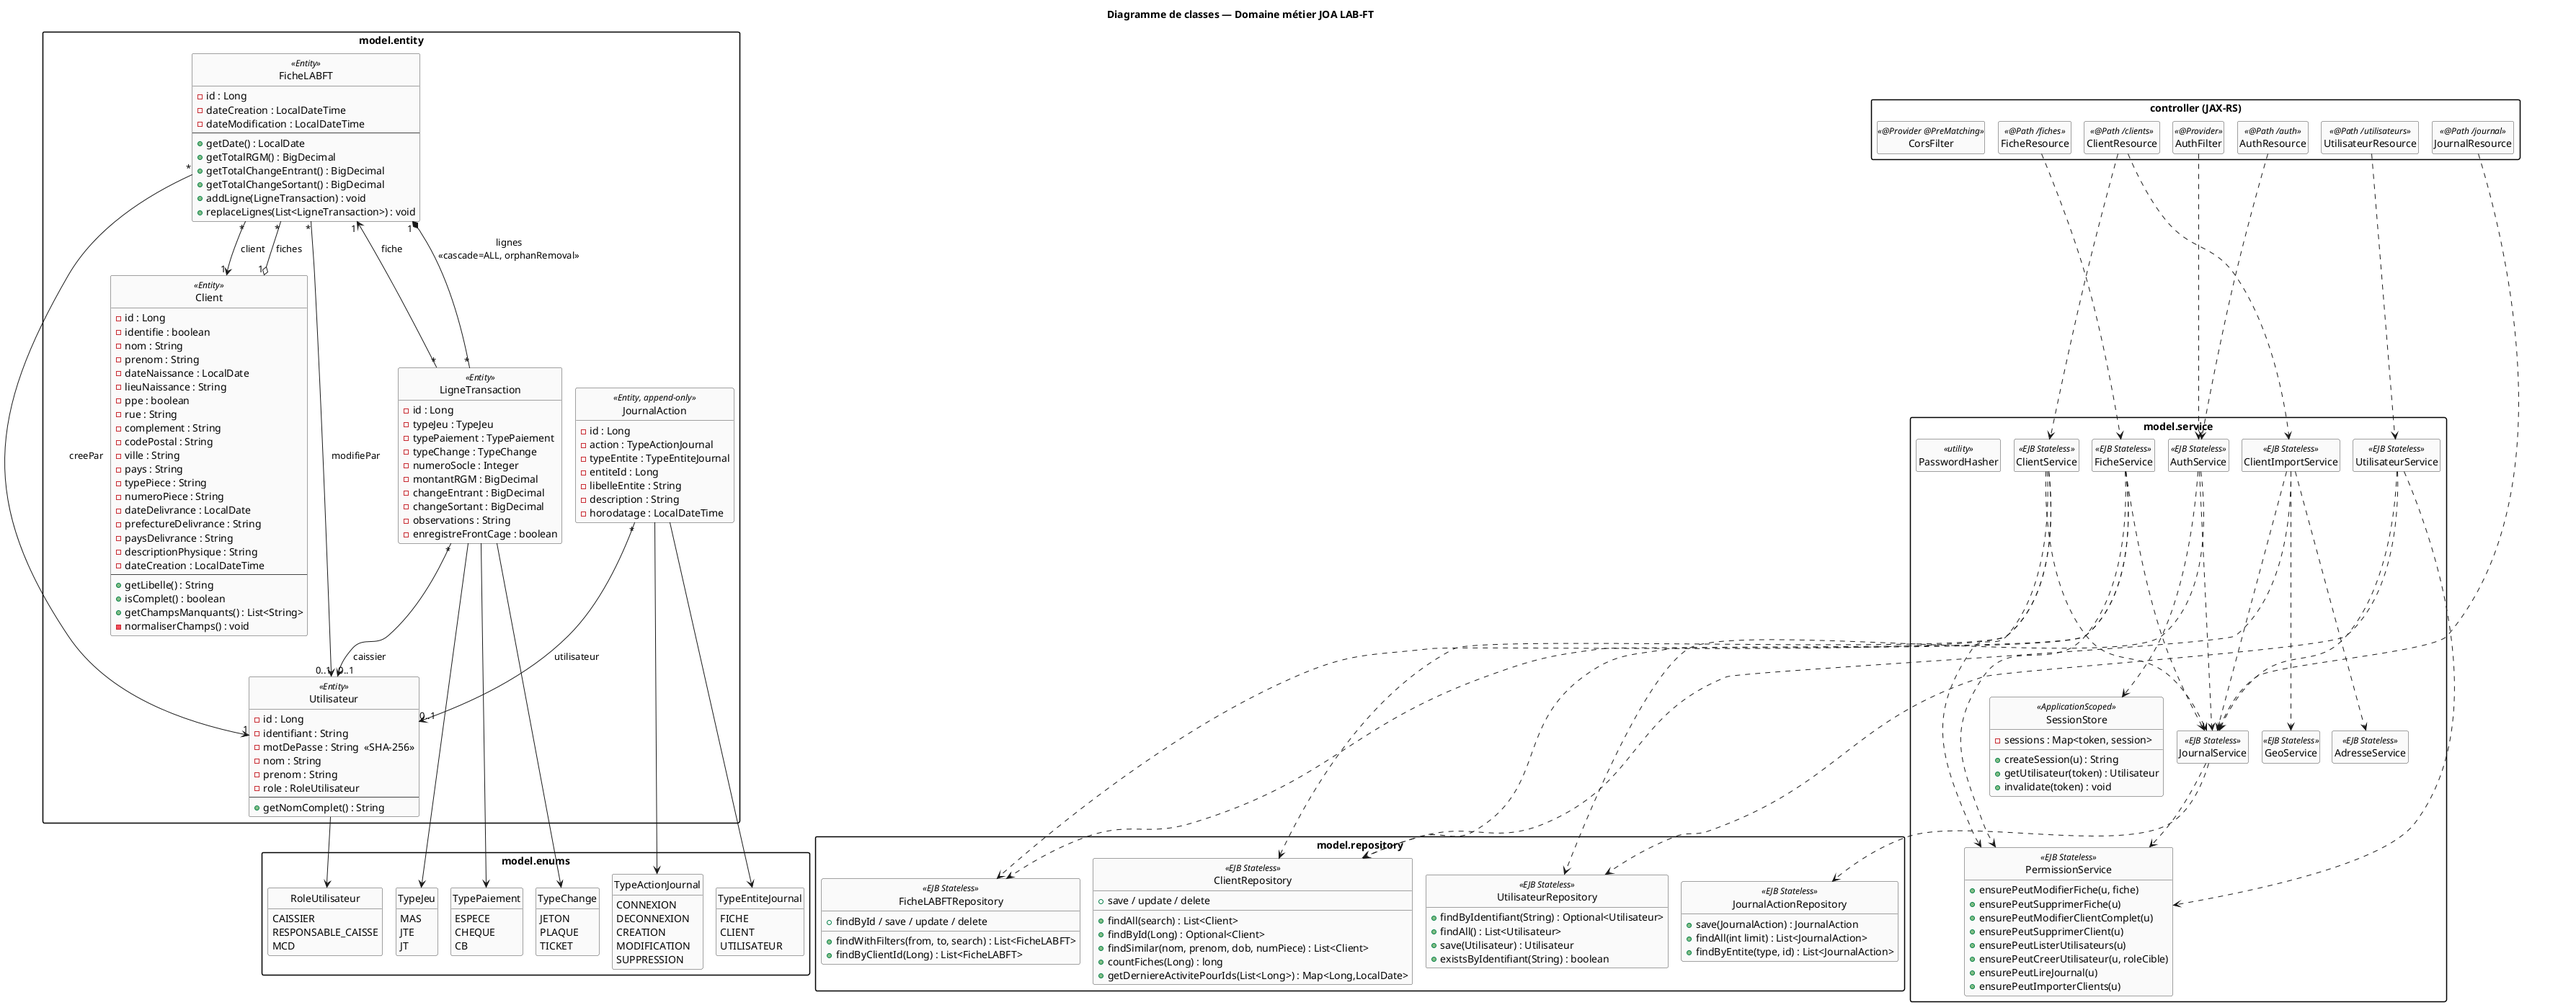
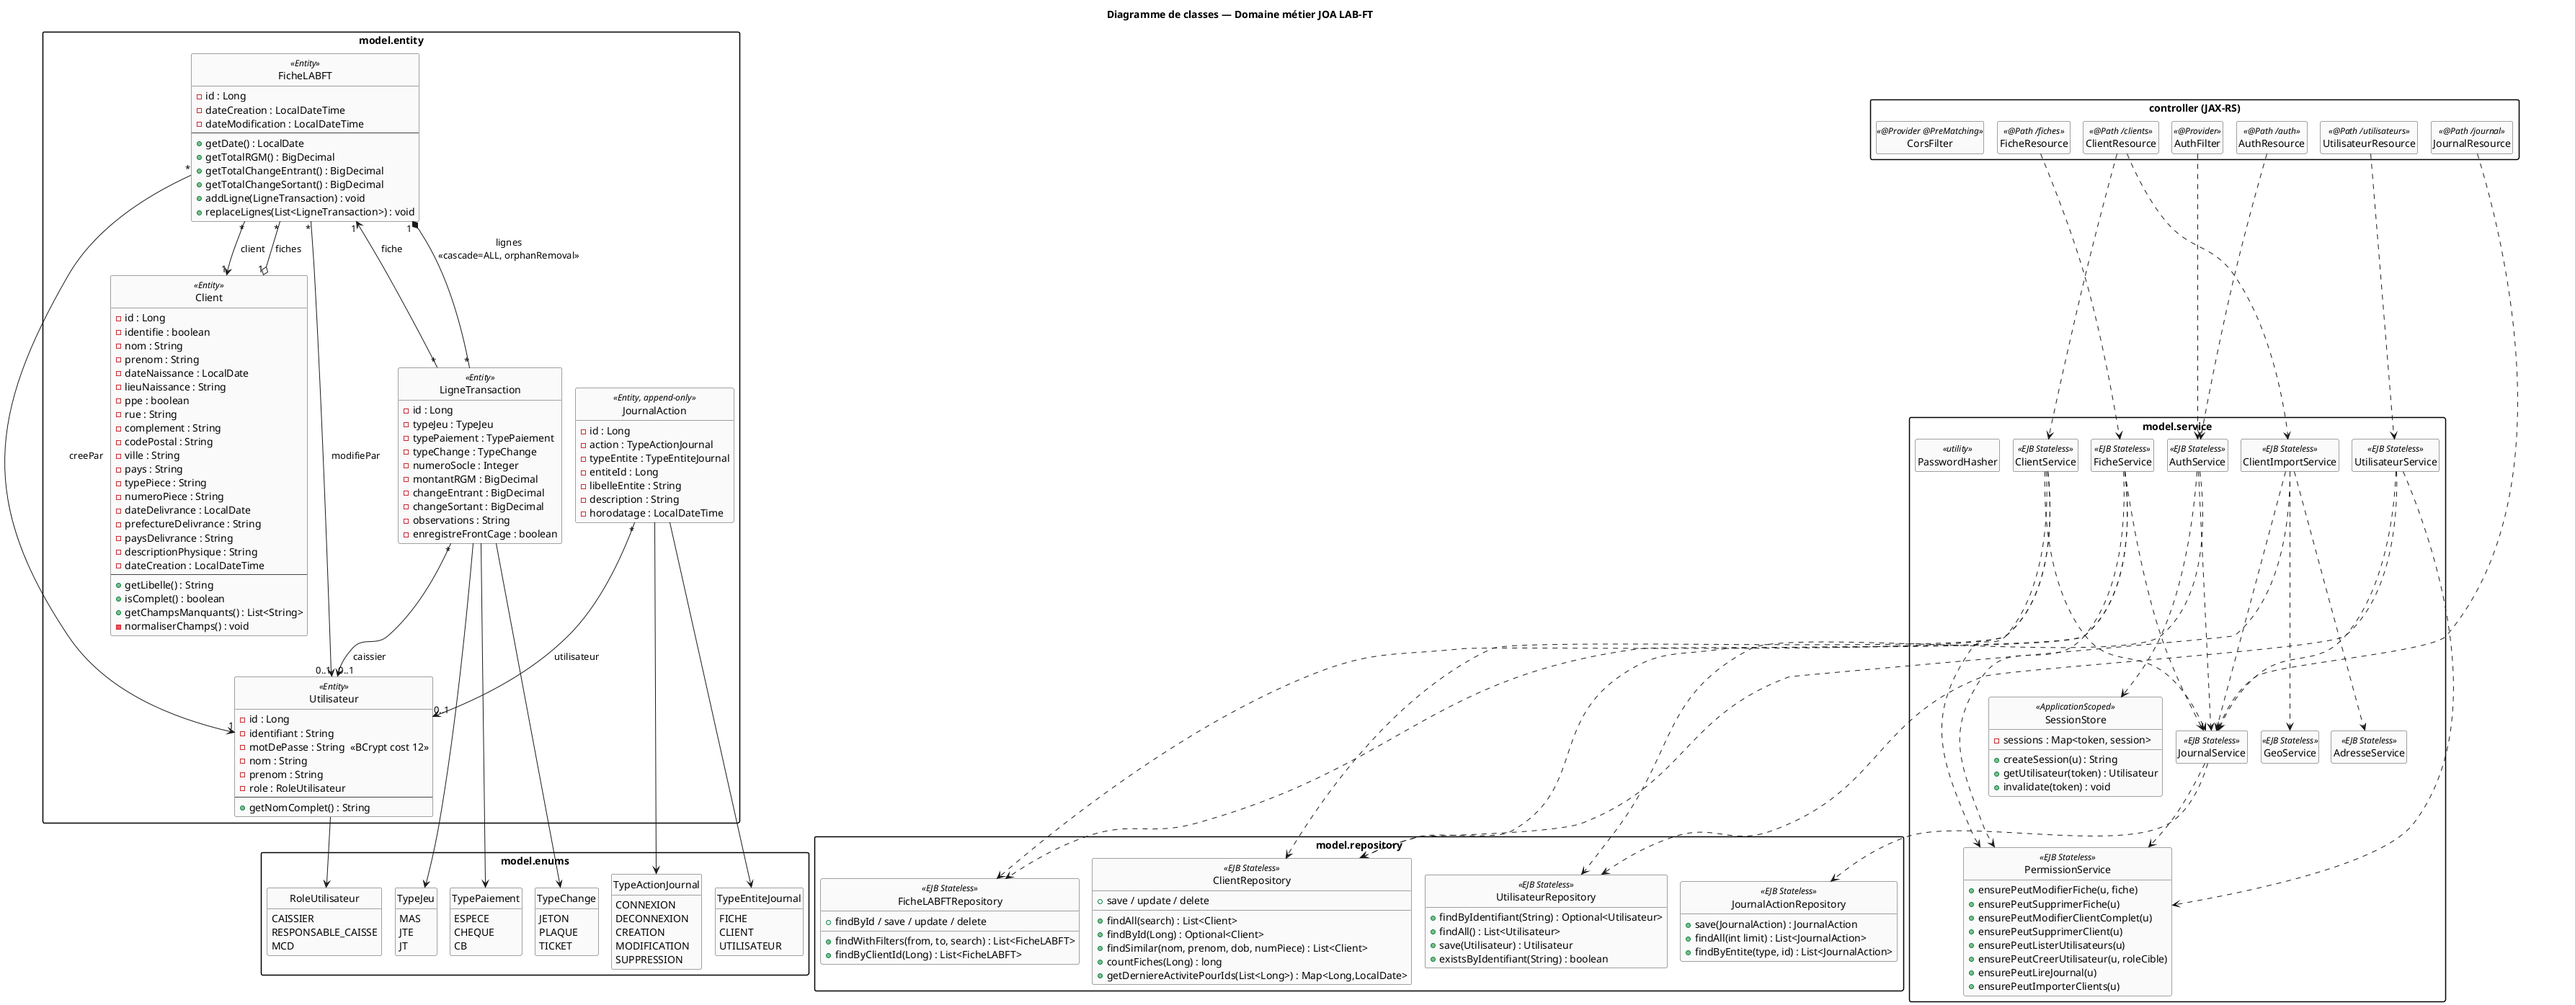
feat: migre les mots de passe de SHA-256 vers BCrypt (cost 12) avec salt
- ajoute la dépendance at.favre.lib:bcrypt 0.10.2
- PasswordHasher.hash() utilise BCrypt cost 12 + salt aléatoire
- PasswordHasher.verify() détecte BCrypt vs SHA-256 legacy
- AuthService.login() re-hash transparent en BCrypt à la première
  connexion réussie d'un compte legacy (zéro downtime, pas de script SQL)
- Utilisateur.motDePasse passe de length=64 à length=100
- docs (architecture, database, doc technique, FAQ) et UML mis à jour

diff --git a/src/main/java/com/amael/joalabft_backend/model/service/PasswordHasher.java b/src/main/java/com/amael/joalabft_backend/model/service/PasswordHasher.java
@@ -1,20 +1,83 @@
 package com.amael.joalabft_backend.model.service;
 
+import at.favre.lib.crypto.bcrypt.BCrypt;
+
 import java.nio.charset.StandardCharsets;
 import java.security.MessageDigest;
 import java.security.NoSuchAlgorithmException;
 
 /**
- * Hashage des mots de passe applicatifs. Centralisé ici pour que la même
- * fonction soit utilisée à la connexion (vérification) et à la création
- * d'utilisateur (stockage).
+ * Hachage des mots de passe applicatifs.
+ *
+ * <p>Les nouveaux mots de passe sont hashés en <strong>BCrypt</strong> (facteur de coût 12,
+ * salt aléatoire intégré au hash). Le format produit fait 60 caractères, par ex.
+ * {@code $2a$12$...}.
+ *
+ * <p>Pour assurer la rétrocompatibilité avec les comptes créés avant la migration,
+ * {@link #verify(String, String)} accepte aussi les anciens hashes SHA-256 (64 caractères
+ * hexadécimaux). La méthode {@link #isLegacyHash(String)} permet d'identifier ces hashes
+ * obsolètes afin de les re-hasher en BCrypt à la prochaine connexion réussie.
  */
 public final class PasswordHasher {
 
+    /** Facteur de coût BCrypt : 2^12 = 4096 itérations (~250 ms sur un serveur moderne). */
+    private static final int BCRYPT_COST = 12;
+
     private PasswordHasher() {}
 
-    /** Retourne la représentation hexadécimale du SHA-256 de {@code input}. */
-    public static String hash(String input) {
+    /**
+     * Hash {@code motDePasse} en BCrypt avec salt aléatoire.
+     *
+     * @return hash BCrypt de 60 caractères ({@code $2a$12$...})
+     * @throws IllegalArgumentException si {@code motDePasse} est {@code null}
+     */
+    public static String hash(String motDePasse) {
+        if (motDePasse == null) {
+            throw new IllegalArgumentException("Mot de passe null");
+        }
+        return BCrypt.withDefaults().hashToString(BCRYPT_COST, motDePasse.toCharArray());
+    }
+
+    /**
+     * Vérifie qu'un mot de passe en clair correspond à un hash stocké.
+     *
+     * <p>Détecte automatiquement le format :
+     * <ul>
+     *   <li>BCrypt ({@code $2a$}, {@code $2b$}, {@code $2y$}) → vérification BCrypt.</li>
+     *   <li>SHA-256 (64 caractères hexadécimaux) → comparaison legacy
+     *       en temps constant.</li>
+     * </ul>
+     *
+     * @return {@code true} si le mot de passe correspond, {@code false} sinon
+     *         (y compris si {@code hashStocke} est {@code null}/vide)
+     */
+    public static boolean verify(String motDePasse, String hashStocke) {
+        if (motDePasse == null || hashStocke == null || hashStocke.isEmpty()) {
+            return false;
+        }
+        if (isLegacyHash(hashStocke)) {
+            return constantTimeEquals(sha256Hex(motDePasse), hashStocke);
+        }
+        return BCrypt.verifyer().verify(motDePasse.toCharArray(), hashStocke).verified;
+    }
+
+    /**
+     * Indique si le hash est au format legacy SHA-256 (64 caractères hexadécimaux).
+     * Un hash legacy doit être re-hashé en BCrypt à la prochaine authentification réussie.
+     */
+    public static boolean isLegacyHash(String hashStocke) {
+        if (hashStocke == null || hashStocke.length() != 64) return false;
+        for (int i = 0; i < 64; i++) {
+            char c = hashStocke.charAt(i);
+            boolean hex = (c >= '0' && c <= '9') || (c >= 'a' && c <= 'f') || (c >= 'A' && c <= 'F');
+            if (!hex) return false;
+        }
+        return true;
+    }
+
+    // ── Helpers internes (rétrocompatibilité SHA-256) ──────────────────────────────
+
+    private static String sha256Hex(String input) {
         try {
             MessageDigest digest = MessageDigest.getInstance("SHA-256");
             byte[] hash = digest.digest(input.getBytes(StandardCharsets.UTF_8));
@@ -26,5 +89,15 @@ public final class PasswordHasher {
         } catch (NoSuchAlgorithmException e) {
             throw new RuntimeException("SHA-256 non disponible", e);
         }
+    }
+
+    /** Comparaison en temps constant pour éviter les timing attacks sur l'ancien format. */
+    private static boolean constantTimeEquals(String a, String b) {
+        if (a.length() != b.length()) return false;
+        int diff = 0;
+        for (int i = 0; i < a.length(); i++) {
+            diff |= a.charAt(i) ^ b.charAt(i);
+        }
+        return diff == 0;
     }
 }

diff --git a/src/main/java/com/amael/joalabft_backend/model/service/AuthService.java b/src/main/java/com/amael/joalabft_backend/model/service/AuthService.java
@@ -11,7 +11,11 @@ import java.util.Optional;
 
 /**
  * Gère l'authentification des utilisateurs.
- * Les mots de passe sont comparés après hachage SHA-256.
+ *
+ * <p>Les mots de passe sont vérifiés via {@link PasswordHasher#verify(String, String)},
+ * qui accepte le format BCrypt courant et tolère les hashes SHA-256 hérités. Tout hash
+ * legacy détecté lors d'une connexion réussie est <strong>migré en BCrypt</strong> de
+ * manière transparente pour l'utilisateur.
  */
 @Stateless
 public class AuthService {
@@ -35,7 +39,11 @@ public class AuthService {
         if (opt.isEmpty()) return null;
 
         Utilisateur u = opt.get();
-        if (!u.getMotDePasse().equals(PasswordHasher.hash(motDePasse))) return null;
+        if (!PasswordHasher.verify(motDePasse, u.getMotDePasse())) return null;
+
+        if (PasswordHasher.isLegacyHash(u.getMotDePasse())) {
+            u.setMotDePasse(PasswordHasher.hash(motDePasse));
+        }
 
         String token = sessionStore.createSession(u);
         journalService.log(

diff --git a/src/main/java/com/amael/joalabft_backend/model/entity/Utilisateur.java b/src/main/java/com/amael/joalabft_backend/model/entity/Utilisateur.java
@@ -5,7 +5,9 @@ import jakarta.persistence.*;
 
 /**
  * Compte applicatif d'un employé du casino.
- * Le mot de passe est stocké sous forme de hash SHA-256.
+ * Le mot de passe est stocké sous forme de hash BCrypt (60 caractères) ; les comptes
+ * antérieurs à la migration peuvent transitoirement contenir un hash SHA-256 (64
+ * caractères hex) re-hashé en BCrypt à la prochaine connexion.
  */
 @Entity
 @Table(name = "utilisateurs")
@@ -18,7 +20,7 @@ public class Utilisateur {
     @Column(nullable = false, unique = true, length = 50)
     private String identifiant;
 
-    @Column(name = "mot_de_passe", nullable = false, length = 64)
+    @Column(name = "mot_de_passe", nullable = false, length = 100)
     private String motDePasse;
 
     @Column(nullable = false, length = 50)

diff --git a/docs/faq_technique.md b/docs/faq_technique.md
@@ -75,20 +75,19 @@ Le code se trouve dans `FicheService.updateFiche` → snapshots stockés dans `M
 
 ### B1. Comment est stocké le mot de passe ?
 
-Hash SHA-256 hexadécimal, généré par `PasswordHasher.hash` :
+Hash **BCrypt** (facteur de coût 12, salt aléatoire intégré), généré par `PasswordHasher.hash` :
 
 ```java
-MessageDigest digest = MessageDigest.getInstance("SHA-256");
-byte[] hash = digest.digest(input.getBytes(StandardCharsets.UTF_8));
-// → 64 caractères hex stockés dans utilisateurs.mot_de_passe
+return BCrypt.withDefaults().hashToString(12, motDePasse.toCharArray());
+// → 60 caractères "$2a$12$<salt+hash>" stockés dans utilisateurs.mot_de_passe
 ```
 
-**Limites connues** :
-- Pas de **sel** → deux utilisateurs avec le même mot de passe ont le même hash (rainbow tables).
-- Pas de **fonction adaptative** (Bcrypt, Argon2id, PBKDF2) → le hash est rapide à calculer, donc rapide à brute-forcer.
-- Comparaison via `equals` standard → théoriquement **timing-attack** possible (sortie anticipée au premier octet différent).
+**Propriétés** :
+- **Sel intégré** au hash → deux utilisateurs avec le même mot de passe ont deux hashes différents (rainbow tables inopérantes).
+- **Fonction adaptative** : 2^12 = 4096 itérations (~250 ms sur un serveur moderne). Le coût peut être augmenté sans changement de schéma.
+- **Comparaison constant-time** : `BCrypt.verifyer().verify()` ne fait pas de sortie anticipée.
 
-**Comment je le corrige en production** : remplacer `PasswordHasher` par BCrypt (`org.springframework.security.crypto.bcrypt.BCryptPasswordEncoder` ou équivalent jBCrypt). Le sel est intégré au hash. La comparaison est faite avec `MessageDigest.isEqual(...)` qui est constant-time. C'est un changement local — seul `AuthService.login` et la création d'utilisateurs sont impactés.
+**Rétrocompatibilité** : la méthode `PasswordHasher.verify()` accepte aussi les anciens hashes SHA-256 (64 caractères hex, comparés en temps constant). À la première connexion réussie d'un compte legacy, `AuthService.login()` détecte le hash via `isLegacyHash()` et le re-hashe en BCrypt — la migration est transparente pour l'utilisateur, sans script SQL.
 
 ### B2. Que se passe-t-il si un attaquant intercepte un token JWT… euh, Bearer UUID ?
 
@@ -376,7 +375,7 @@ Pour un projet plus sensible (réglementaire pur), on imposerait la CHECK au niv
 
 | # | Limite | Impact | Mitigation pour la production |
 |---|---|---|---|
-| 1 | SHA-256 sans sel + `equals` non timing-safe | Brute-force, rainbow tables, timing | BCrypt / Argon2id + `MessageDigest.isEqual` |
+| 1 | ~~SHA-256 sans sel~~ → **migré vers BCrypt cost 12 + salt** (fallback legacy + re-hash transparent à la connexion) | Résolu | — |
 | 2 | Sessions en mémoire, expiration passive | Fuite mémoire (faible), pas de HA | Redis ou JWT signés ; purge active |
 | 3 | CORS `*` | Élargit la surface d'attaque | Whitelist d'origines en production |
 | 4 | Token en `localStorage` | Lecture par XSS | Cookie `HttpOnly` + CSP serveur |

diff --git a/docs/documentation_technique.md b/docs/documentation_technique.md
@@ -204,7 +204,7 @@ public String login(String identifiant, String motDePasse) {
 **Sortie** : token UUID si succès, `null` sinon.
 **Effet de bord** : enregistre une entrée `CONNEXION` dans le journal d'audit.
 
-`PasswordHasher.hash()` produit un hexadécimal SHA-256 sur 64 caractères. La comparaison avec le mot de passe stocké se fait par `equals` direct.
+`PasswordHasher.hash()` produit un hash **BCrypt** (60 caractères, facteur de coût 12, salt aléatoire intégré). La vérification utilise `PasswordHasher.verify()` qui détecte automatiquement le format : BCrypt pour les comptes récents, SHA-256 hexadécimal (64 caractères) pour les comptes hérités. Tout hash legacy détecté lors d'une connexion réussie est re-hashé en BCrypt et persisté de manière transparente.
 
 ### 4.2 SessionStore — `@ApplicationScoped`
 
@@ -460,7 +460,7 @@ useEffect(() => {
 4. AuthFilter         → laisse passer (whitelisted)
 5. AuthResource       → AuthService.login
 6. UtilisateurRepo    → findByIdentifiant
-7. PasswordHasher     → SHA-256 du mdp reçu, comparaison
+7. PasswordHasher     → verify() BCrypt (re-hash si hash legacy SHA-256)
 8. SessionStore       → createSession → token UUID
 9. JournalService     → log(CONNEXION, ...)
 10. Response 200      → { token, id, nom, prenom, role }

diff --git a/docs/database.md b/docs/database.md
@@ -39,7 +39,7 @@ asadmin create-jdbc-resource --connectionpoolid LABFTDB_Pool jdbc/LABFTDB
 |---|---|---|---|
 | `id` | BIGINT | PK, auto-increment | |
 | `identifiant` | VARCHAR(50) | NOT NULL, UNIQUE | Login de l'utilisateur |
-| `mot_de_passe` | VARCHAR(64) | NOT NULL | Hash SHA-256 du mot de passe |
+| `mot_de_passe` | VARCHAR(100) | NOT NULL | Hash BCrypt du mot de passe (60 caractères) ; SHA-256 toléré pour migration progressive |
 | `nom` | VARCHAR(50) | NOT NULL | |
 | `prenom` | VARCHAR(50) | NOT NULL | |
 | `role` | VARCHAR(20) | NOT NULL | Enum : `CAISSIER`, `RESPONSABLE_CAISSE`, `MCD` |

diff --git a/docs/architecture.md b/docs/architecture.md
@@ -74,7 +74,7 @@ src/main/resources/
 
 L'authentification est geree par tokens de session en memoire :
 
-1. `POST /api/auth/login` : verifie identifiant + mot de passe (SHA-256), retourne un token UUID
+1. `POST /api/auth/login` : verifie identifiant + mot de passe (BCrypt cout 12, fallback SHA-256 pour les comptes anciens), retourne un token UUID
 2. Le token est stocke dans `SessionStore` (ConcurrentHashMap en memoire)
 3. `AuthFilter` intercepte toutes les requetes, verifie le token Bearer et injecte l'`Utilisateur` dans le contexte de la requete
 4. `POST /api/auth/logout` : invalide le token
